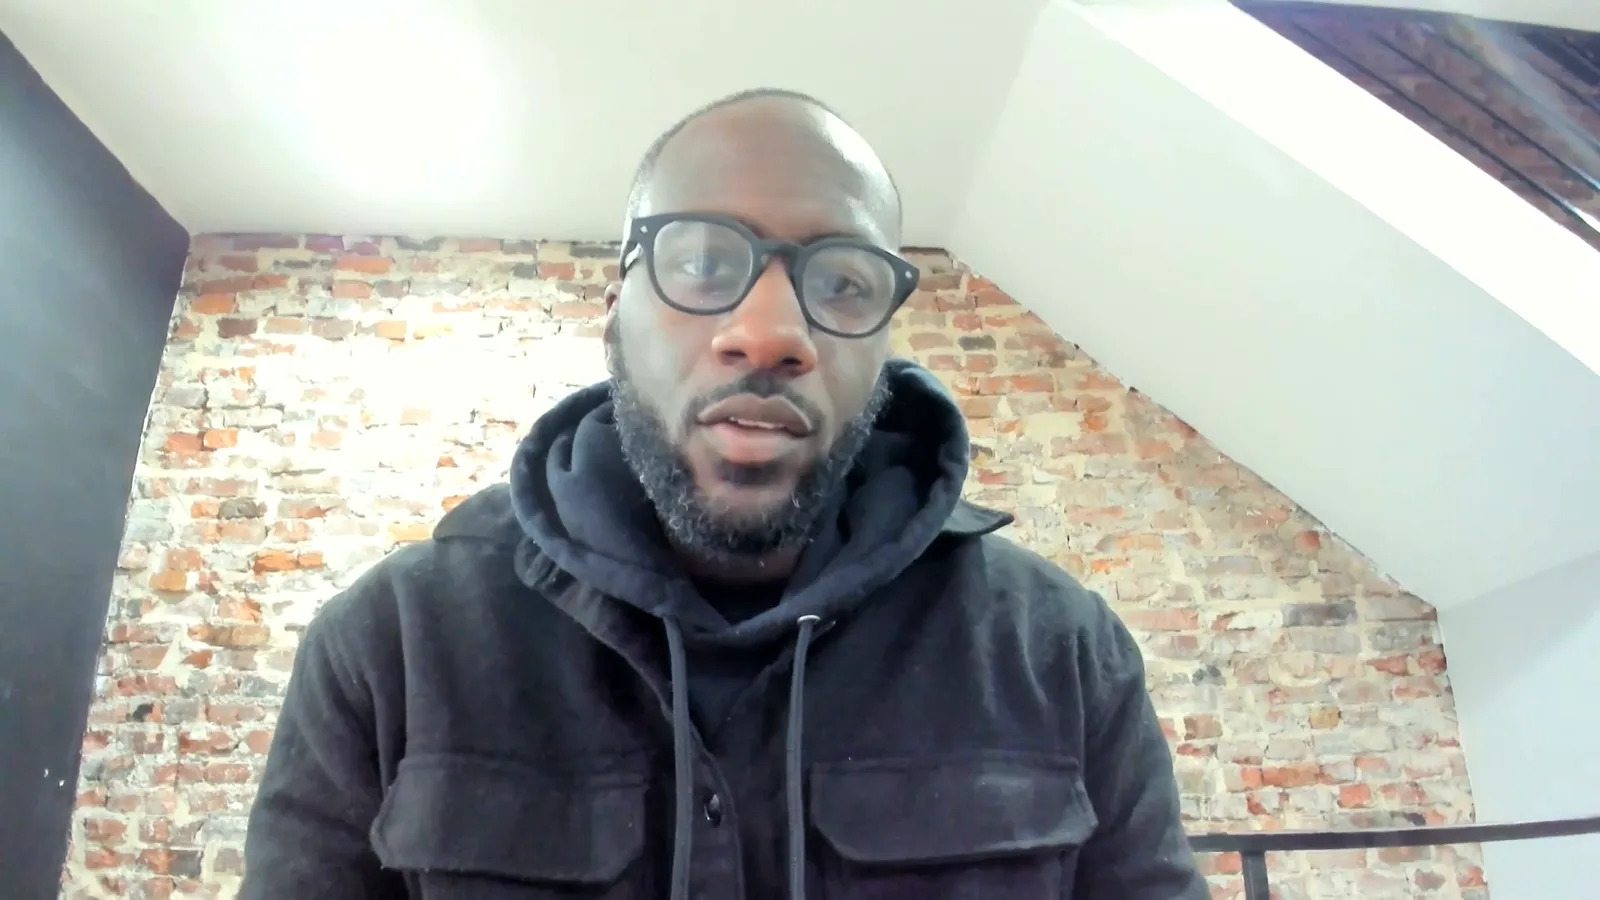
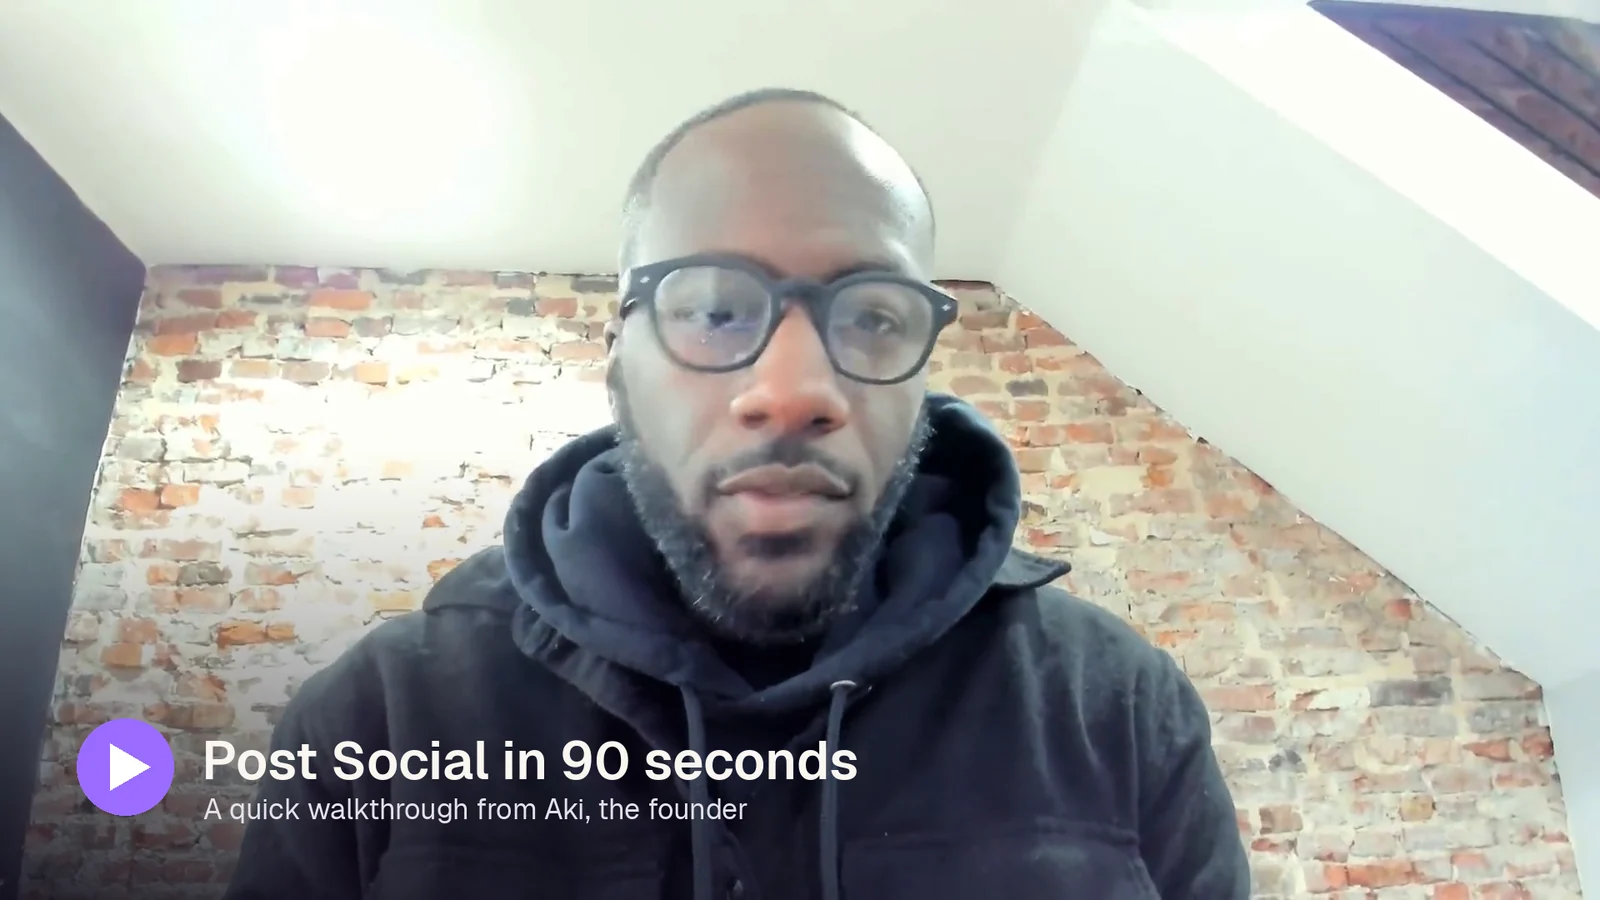
Landing: Claude badge inside the chat, app symbol on the home shot, new video cover
Claude-Session: https://claude.ai/code/session_01EoRhWvxsRMUj4oViJ5cu3T

diff --git a/src/app/page.tsx b/src/app/page.tsx
@@ -68,10 +68,10 @@ function Check() {
   );
 }
 
-// A small chip on a screen's top-left corner naming where the screenshot comes from.
+// A small chip inside a screen's top-left corner naming the app the screenshot comes from.
 function Badge({ icon, label }: { icon: React.ReactNode; label: string }) {
   return (
-    <span className="lp-glass absolute bottom-full left-3 z-10 mb-3 inline-flex items-center gap-2 rounded-full py-1 pl-1 pr-3 text-[13px] font-medium text-[#FAF6F0] shadow-[0_8px_24px_rgba(0,0,0,0.4)]">
+    <span className="lp-glass absolute left-4 top-4 z-10 inline-flex items-center gap-2 rounded-full py-1 pl-1 pr-3 text-[13px] font-medium text-[#FAF6F0] shadow-[0_8px_24px_rgba(0,0,0,0.4)]">
       {icon}
       {label}
     </span>
@@ -80,14 +80,14 @@ function Badge({ icon, label }: { icon: React.ReactNode; label: string }) {
 
 function Screen({ src, alt, width = 2400, height = 1500, priority, badge, className }: { src: string; alt: string; width?: number; height?: number; priority?: boolean; badge?: React.ReactNode; className?: string }) {
   return (
-    <div className={cn("lp-screen relative", badge && "mt-8 md:mt-0", className)}>
+    <div className={cn("lp-screen relative", className)}>
       {badge}
       <Image src={src} alt={alt} width={width} height={height} priority={priority} sizes="(max-width: 768px) 100vw, 60vw" className="block h-auto w-full rounded-[14px]" />
     </div>
   );
 }
 
-function Feature({ label, title, text, points, src, alt, width, height, badge, flip }: { label: string; title: React.ReactNode; text: string; points: string[]; src: string; alt: string; width?: number; height?: number; badge?: React.ReactNode; flip?: boolean }) {
+function Feature({ label, title, text, points, src, alt, width, height, flip }: { label: string; title: React.ReactNode; text: string; points: string[]; src: string; alt: string; width?: number; height?: number; flip?: boolean }) {
   return (
     <div className={cn("grid items-center gap-10 md:gap-14", flip ? "md:grid-cols-[3fr_2fr]" : "md:grid-cols-[2fr_3fr]")}>
       <div className={cn(flip && "md:order-2")}>
@@ -103,7 +103,7 @@ function Feature({ label, title, text, points, src, alt, width, height, badge, f
           ))}
         </ul>
       </div>
-      <Screen src={src} alt={alt} width={width} height={height} badge={badge} className={cn(flip && "md:order-1")} />
+      <Screen src={src} alt={alt} width={width} height={height} className={cn(flip && "md:order-1")} />
     </div>
   );
 }
@@ -266,15 +266,6 @@ export default function LandingPage() {
             points={["Everything going out next, on every channel", "Problems flagged in plain words, with the fix", "Posts from you and your agents, side by side"]}
             src="/landing/app-home.webp"
             alt="The Post Social home screen: posts going out next, one that needs attention, and recent activity from the team, Claude and ChatGPT"
-            badge={
-              <Badge
-                icon={
-                  // eslint-disable-next-line @next/next/no-img-element -- tiny static svg
-                  <img src="/post-social-icon.svg" alt="" className="size-[22px] rounded-[6px]" />
-                }
-                label="Post Social"
-              />
-            }
           />
         </section>
 

diff --git a/src/app/page.test.tsx b/src/app/page.test.tsx
@@ -48,9 +48,9 @@ describe("LandingPage", () => {
     // The real chat sits in the Use with AI section; the connector permissions sit under Features.
     expect(document.querySelector('#agents [data-src="/landing/claude-chat.webp"]')).not.toBeNull();
     expect(document.querySelector('#features [data-src="/landing/claude-connector.webp"]')).not.toBeNull();
-    // Each shot says where it comes from.
+    // The Claude chat is labelled as Claude; the app's own screen needs no label.
     expect(within(document.getElementById("agents") as HTMLElement).getByText("Claude")).toBeInTheDocument();
-    expect(within(document.getElementById("features") as HTMLElement).getByText("Post Social")).toBeInTheDocument();
+    expect(within(document.getElementById("features") as HTMLElement).queryByText("Post Social")).toBeNull();
   });
 
   it("is honest about platforms: eight live, nothing promised", () => {
